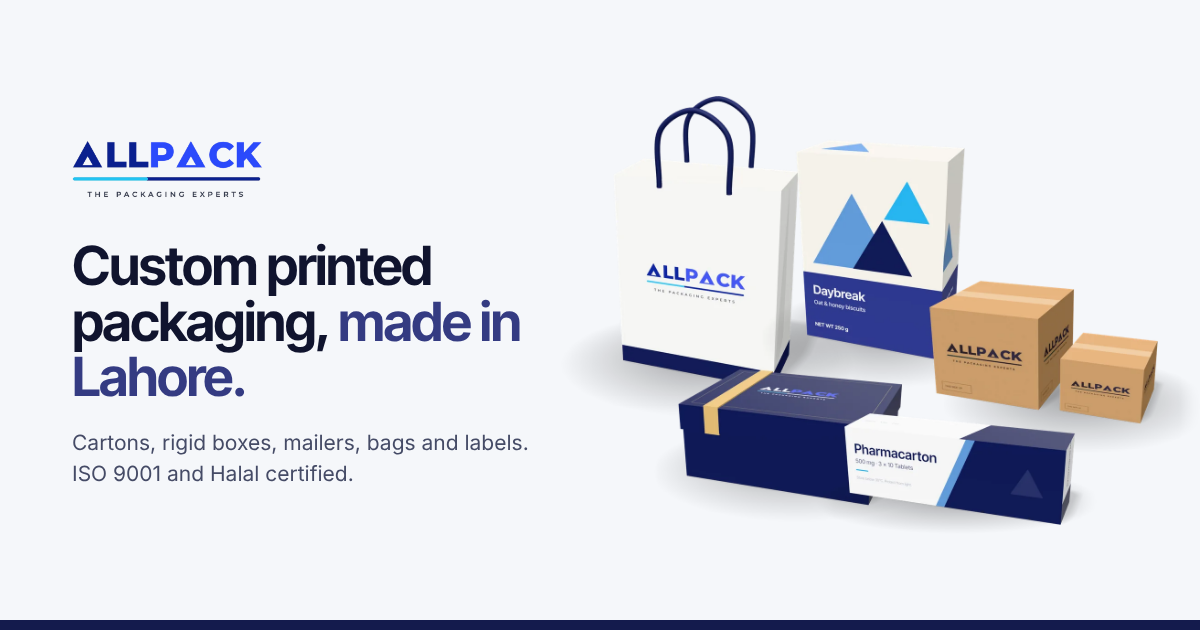
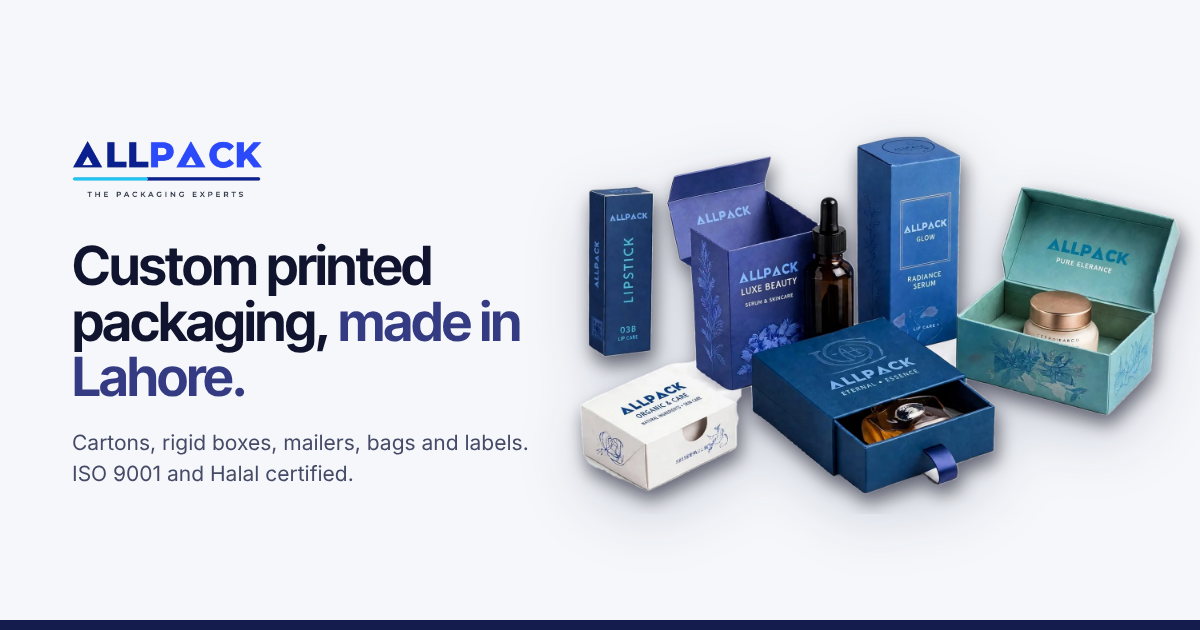
Hero: owner's ALL PACK cosmetic packaging image, background removed, larger in the frame
Claude-Session: https://claude.ai/code/session_01HC6efwoBxu5bysp8tUQcVt

Changed region(s): [[0.4625, 0.1508, 1.0, 0.8444]]

diff --git a/src/components/HeroVisual.tsx b/src/components/HeroVisual.tsx
@@ -28,9 +28,9 @@ export function HeroVisual() {
     <div className="hero-visual anim-up d3 [perspective:1200px]">
       <div ref={wrap} className="will-change-transform">
         <img
-          src="/renders/packaging-range.webp" alt="ALL PACK printed packaging: a paper bag, folding carton, rigid gift box, pharmaceutical carton and corrugated shipping boxes"
-          width={1500} height={1026} fetchPriority="high"
-          className="float mx-auto w-full max-w-[680px] lg:max-w-none lg:scale-[1.12]"
+          src="/renders/packaging-range.webp" alt="ALL PACK printed cosmetic packaging: lipstick carton, serum boxes, drawer box and rigid gift boxes"
+          width={1600} height={986} fetchPriority="high"
+          className="float mx-auto w-full max-w-[720px] lg:max-w-none lg:origin-left lg:scale-[1.28]"
         />
       </div>
     </div>

diff --git a/src/app/page.tsx b/src/app/page.tsx
@@ -30,7 +30,7 @@ export default function Home() {
     <main>
       {/* Hero: navy stage, glass card, products at the bottom right */}
       <section className="hero-stage relative isolate overflow-hidden">
-        <div className="container-x grid items-center gap-10 py-10 sm:py-14 lg:min-h-[640px] lg:grid-cols-[minmax(0,560px)_minmax(0,1fr)] lg:gap-16 lg:py-16">
+        <div className="container-x grid items-center gap-10 py-10 sm:py-14 lg:min-h-[640px] lg:grid-cols-[minmax(0,560px)_minmax(0,1fr)] lg:gap-12 lg:py-16">
           <div className="hero-card hero-in rounded-[28px] p-7 sm:p-11">
             <p className="eyebrow eyebrow-light">Packaging printers · Lahore</p>
             <h1 className="h-display mt-6 !text-white">Custom printed packaging, <span className="text-[#8FC2F2]">made to your specification.</span></h1>
